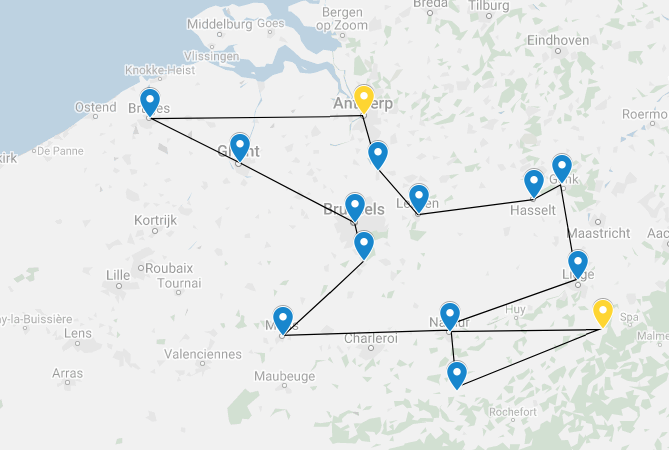
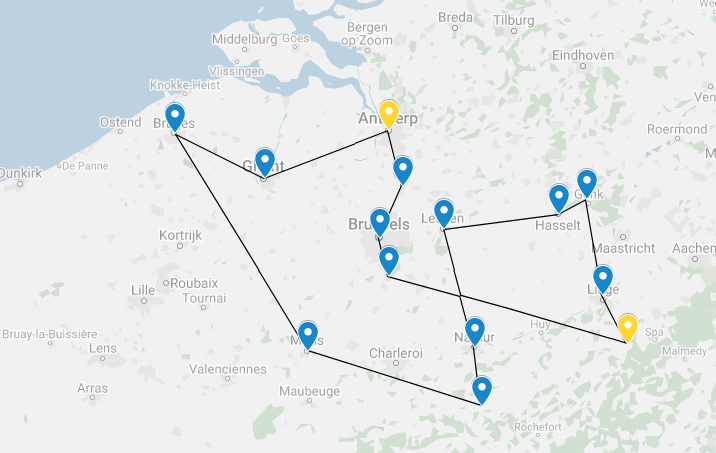
Update README

diff --git a/README.md b/README.md
@@ -165,10 +165,10 @@ For the dataset as provided in the above TSP example, assume that we add some ex
     - Remouchamps: [C-Mine, Dinant, Hasselt, Leuven, Montagne de Bueren, Namur]
 
 The optimal route in this case is:
-
+  
 ```
-Antwerp -> Bruges -> Ghent -> Grand-Place de Bruxelles -> Waterloo -> Mons -> Remouchamps -> Dinant -> Namur -> Montagne de Bueren -> C-Mine -> Hasselt -> Leuven -> Mechelen -> Antwerp
-```
+Antwerp -> Mechelen -> Grand-Place de Bruxelles -> Waterloo -> Remouchamps -> Montagne de Bueren -> C-Mine -> Hasselt -> Leuven -> Namur -> Dinant -> Mons -> Bruges -> Ghent
+-> Antwerp```
 
 ![](./images/sample_opt_sol.png?raw=true)
 
